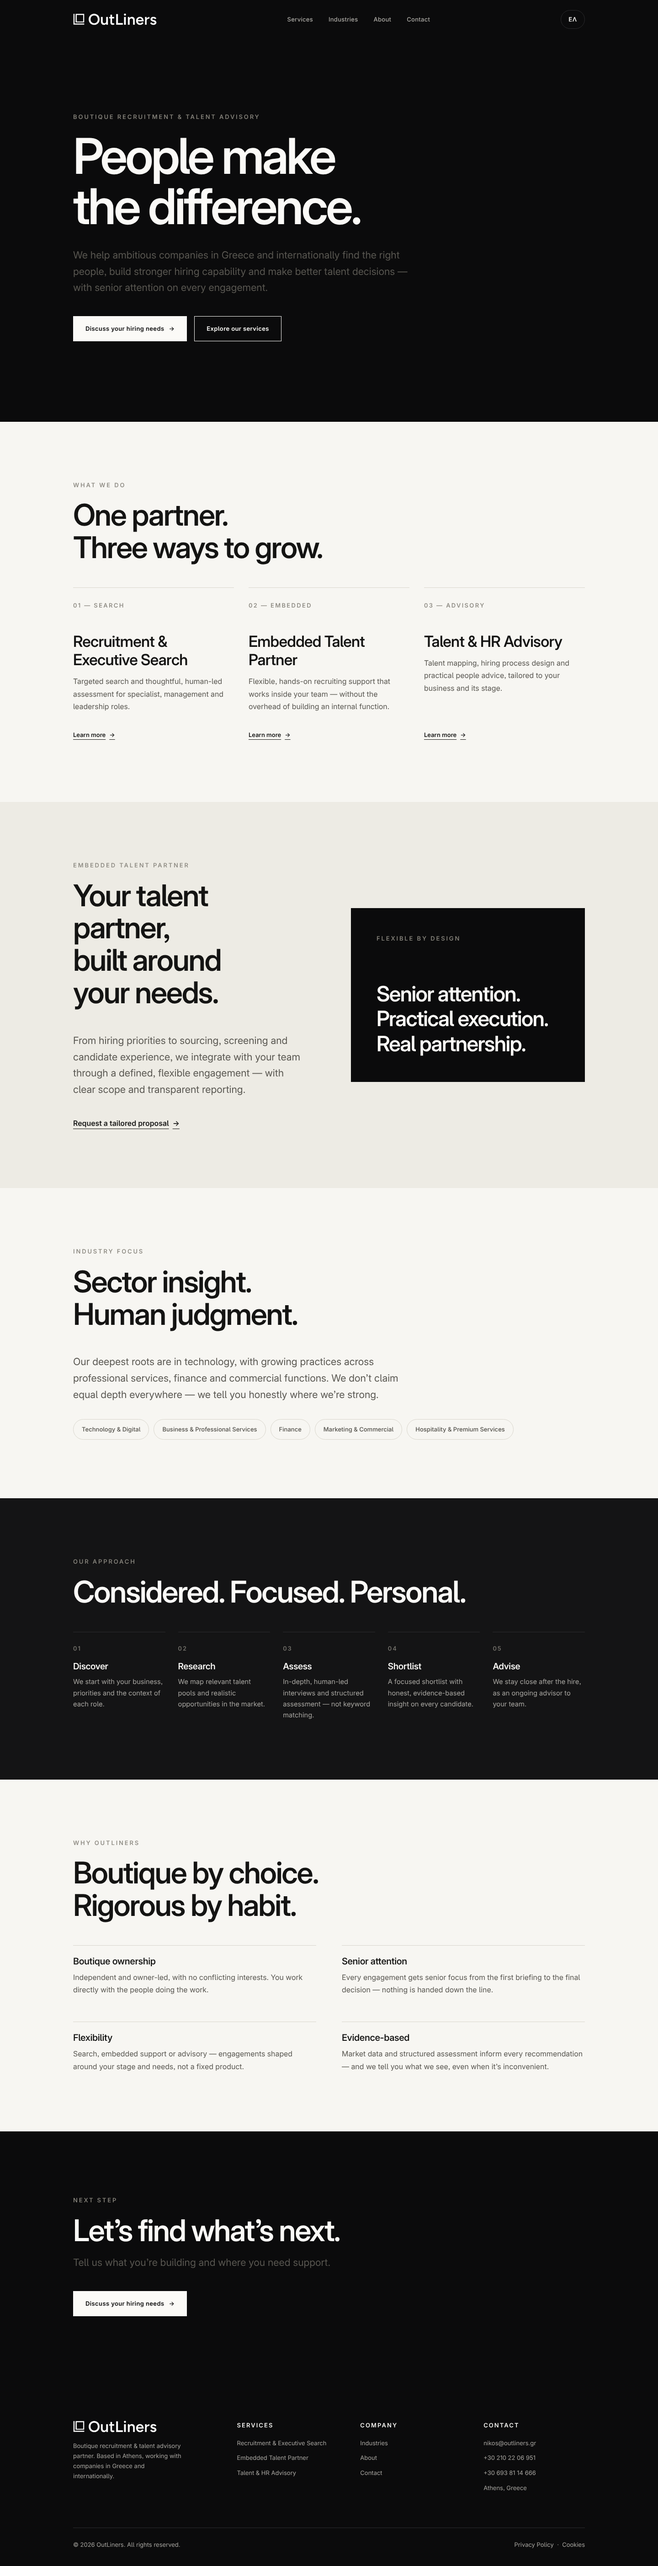
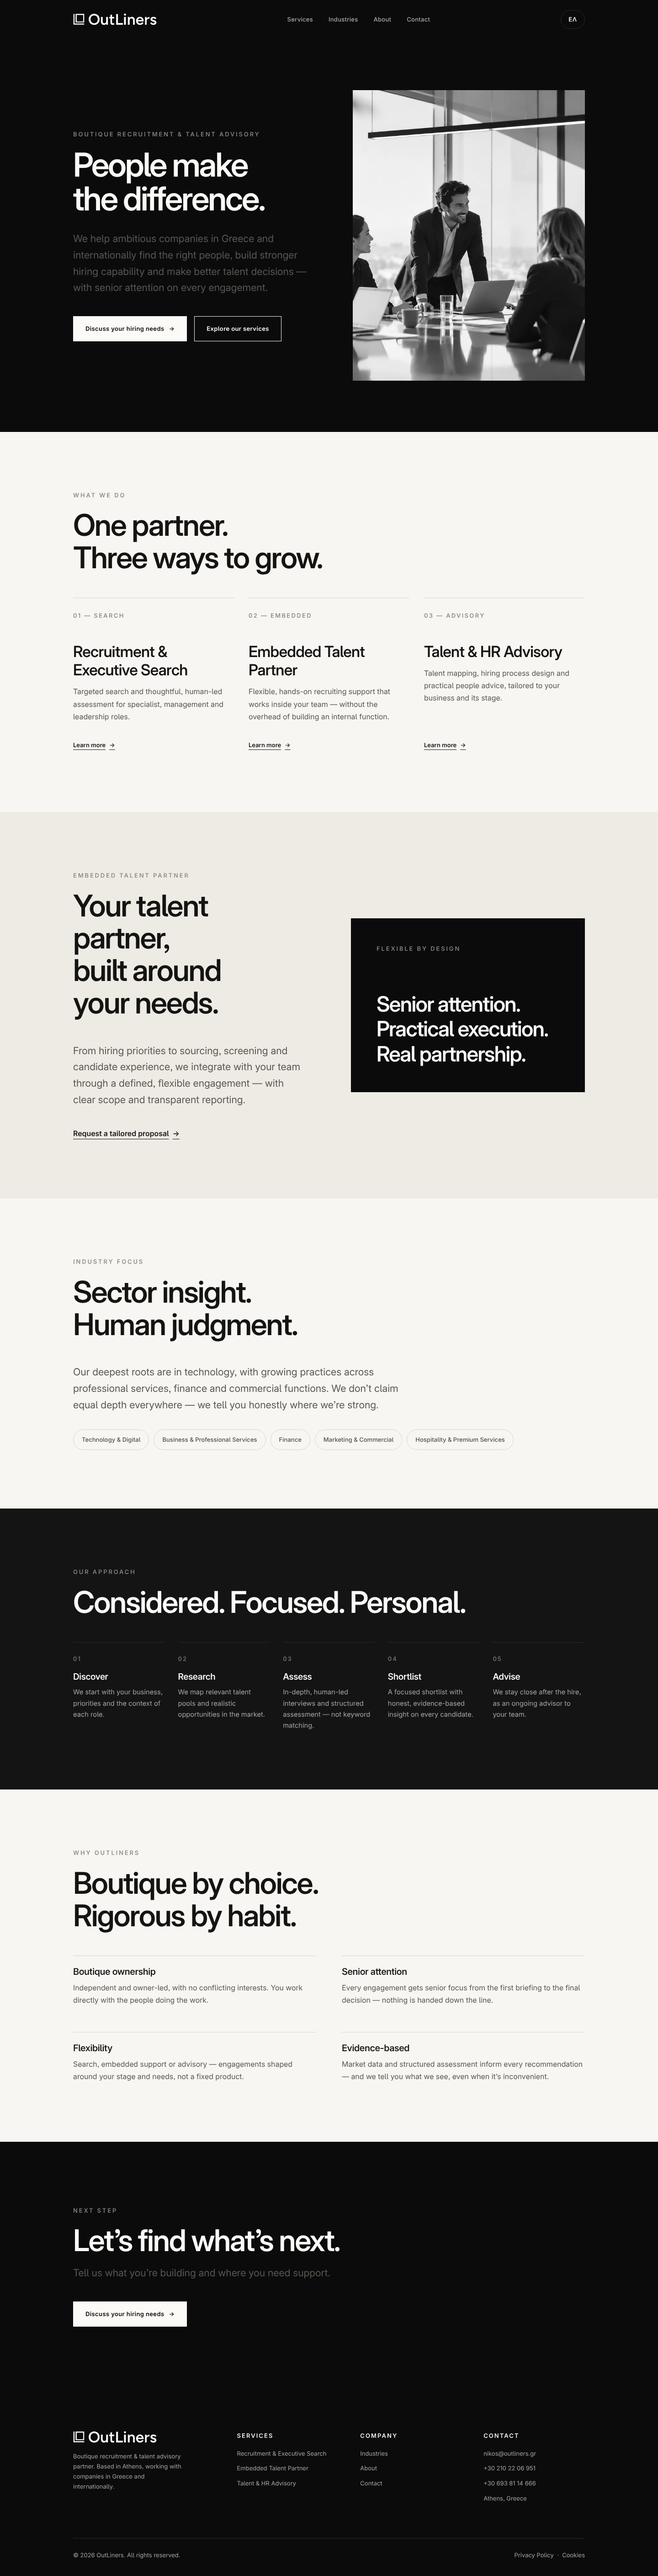
feat: add approved meeting-room hero photo and verify responsive layout
- Commit the owner-approved monochrome photo as
  assets/img/meeting-room-hero.webp (1671x941 WebP, 57 KB, as supplied —
  no re-encoding needed)
- Correct the img width/height attributes on both homepages to the
  file's real intrinsic size (1671x941, was 1648x928) so the reserved
  ratio matches exactly
- Verified in headless Chromium on / and /el/ at 1440 px and 390 px:
  image renders (naturalWidth 1671), 4/5 crop beside the copy on
  desktop, stacked 16/10 -> 4/3 crop on mobile, grayscale filter and
  fetchpriority/decoding hints active, 57 KB transferred, no console
  errors
- Smoke tests: all 21 pages pass on this branch
- Refreshed homepage desktop/mobile EN/EL screenshots for review

Claude-Session: https://claude.ai/code/session_01JftqYVZWgz7fLNNmyM6cim

diff --git a/el/index.html b/el/index.html
@@ -57,7 +57,7 @@
     </div>
     </div>
     <figure class="hero__visual">
-      <img src="/assets/img/meeting-room-hero.webp" alt="" width="1648" height="928" fetchpriority="high" decoding="async">
+      <img src="/assets/img/meeting-room-hero.webp" alt="" width="1671" height="941" fetchpriority="high" decoding="async">
     </figure>
   </div>
 </section>

diff --git a/index.html b/index.html
@@ -57,7 +57,7 @@
     </div>
     </div>
     <figure class="hero__visual">
-      <img src="/assets/img/meeting-room-hero.webp" alt="" width="1648" height="928" fetchpriority="high" decoding="async">
+      <img src="/assets/img/meeting-room-hero.webp" alt="" width="1671" height="941" fetchpriority="high" decoding="async">
     </figure>
   </div>
 </section>
